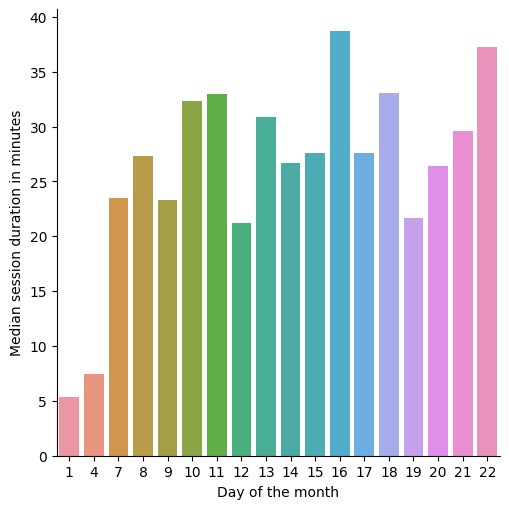
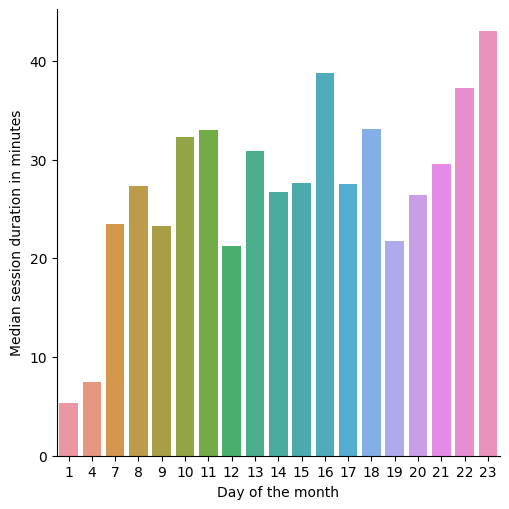
"Stats generated 2021-10-24"

diff --git a/all/2021/10/days/23/index.html b/all/2021/10/days/23/index.html
@@ -1,0 +1,29 @@
+<!DOCTYPE html>
+<html>
+  <head>
+    <meta charset="utf-8"/>
+    <title>23 October 2021</title>
+    <link rel="stylesheet" href="../../../../../styles.css"/>
+  </head>
+  <body>
+    <div id="container">
+      <nav>
+        <ul>
+          
+            <li><a href="../../">October 2021</a></li>
+            <li class="separator"></li>
+          
+          
+        </ul>
+      </nav>
+      <main>
+        <h1>23 October 2021</h1>
+        
+          <h2>Number of sessions per hour</h2>
+          <img src="sessions.png" alt="Number of sessions per hour"/>
+        
+        
+      </main>
+    </div>
+  </body>
+</html>

diff --git a/all/2021/index.html b/all/2021/index.html
@@ -143,9 +143,9 @@
                   
                     <td>10.0</td>
                   
-                    <td>188.0</td>
+                    <td>200.0</td>
                   
-                    <td>26.010375825</td>
+                    <td>26.467733933333335</td>
                   
                 </tr>
               

diff --git a/all/2021/10/index.html b/all/2021/10/index.html
@@ -122,6 +122,10 @@
               <li><a href="days/22/">22</a></li>
             
           
+            
+              <li><a href="days/23/">23</a></li>
+            
+          
         </ul>
       </nav>
       <main>
